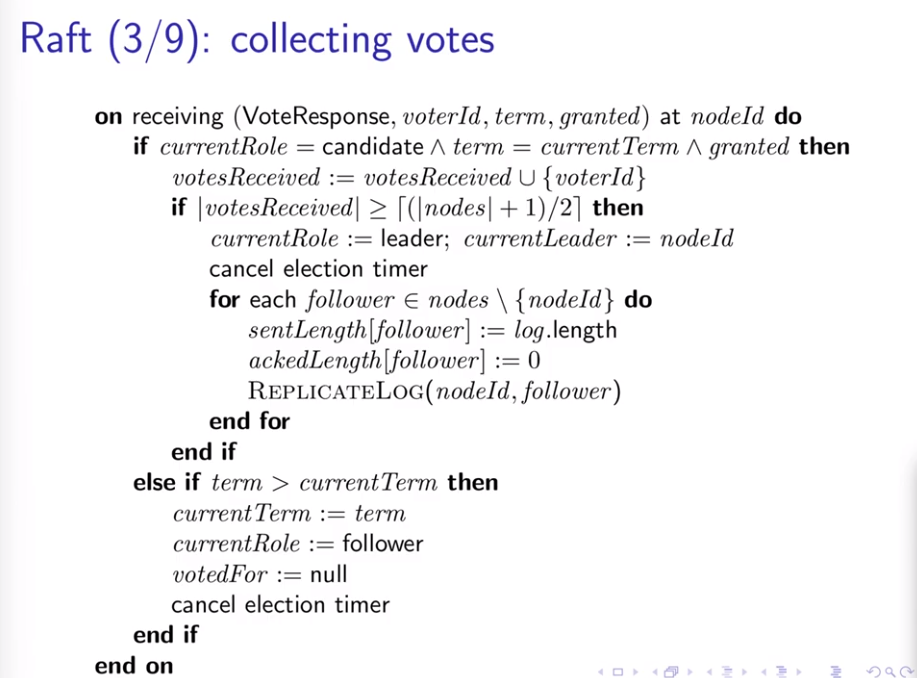
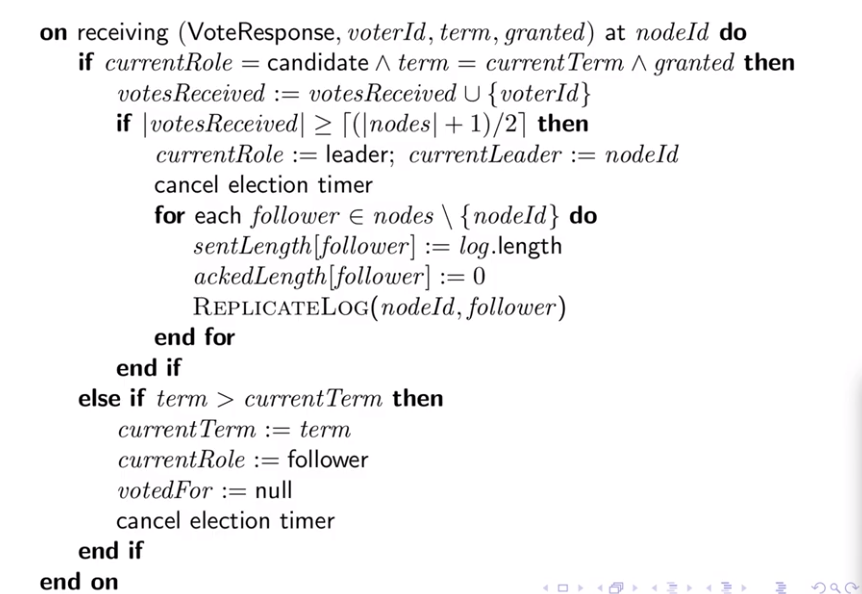
introducing election to handle election phase start/cancel

Changed region(s): [[0.0, 0.0303, 0.935, 1.0], [0.6334, 0.9697, 0.8747, 1.0], [0.9049, 0.9697, 0.9954, 1.0]]

diff --git a/test/core/Node/OnReceivedVoteRequestAgentTests.cs b/test/core/Node/OnReceivedVoteRequestAgentTests.cs
@@ -8,16 +8,19 @@ using RaftCore.Node;
 namespace RaftCoreTest.Node
 {
     [TestFixture]
-    public class OnReceivedVotedRequestAgentTests
+    public class OnReceivedVoteRequestAgentTests
     {
         private Agent _sut;
         private Mock<ICluster> _cluster;
+        private Mock<IElection> _election;
 
         [SetUp]
         public void SetUp()
         {
             _cluster = new Mock<ICluster>();
-            _sut = Agent.Create(_cluster.Object);
+            _election = new Mock<IElection>();
+            _sut = Agent.Create(_cluster.Object,
+                                _election.Object);
         }
 
         [Test]
@@ -45,12 +48,13 @@ namespace RaftCoreTest.Node
             var message = new VoteRequestMessage
             {
                 Type = MessageType.VoteRequest,
+                NodeId = 1,
                 LastTerm = 9
             };
-            agent.OnReceivedVotedRequest(message);
+            agent.OnReceivedVoteRequest(message);
 
             _cluster
-                .Verify(m => m.SendMessage(It.Is<VoteResponseMessage>(
+                .Verify(m => m.SendMessage(1, It.Is<VoteResponseMessage>(
                                                 p => p.NodeId == 42 &&
                                                 p.CurrentTerm == 11 &&
                                                 p.InFavour == false)), Times.Once);
@@ -86,10 +90,10 @@ namespace RaftCoreTest.Node
                 LogLength = 1,
                 CurrentTerm = 12
             };
-            agent.OnReceivedVotedRequest(message);
+            agent.OnReceivedVoteRequest(message);
 
             _cluster
-                .Verify(m => m.SendMessage(It.Is<VoteResponseMessage>(
+                .Verify(m => m.SendMessage(99, It.Is<VoteResponseMessage>(
                                                 p => p.NodeId == 42 &&
                                                 p.CurrentTerm == 12 &&
                                                 p.InFavour == true)), Times.Once);
@@ -128,10 +132,10 @@ namespace RaftCoreTest.Node
                 LogLength = 1,
                 CurrentTerm = 12
             };
-            agent.OnReceivedVotedRequest(message);
+            agent.OnReceivedVoteRequest(message);
 
             _cluster
-                .Verify(m => m.SendMessage(It.Is<VoteResponseMessage>(
+                .Verify(m => m.SendMessage(99, It.Is<VoteResponseMessage>(
                                                 p => p.NodeId == 42 &&
                                                 p.CurrentTerm == 12 &&
                                                 p.InFavour == true)), Times.Once);
@@ -165,13 +169,14 @@ namespace RaftCoreTest.Node
             var message = new VoteRequestMessage
             {
                 Type = MessageType.VoteRequest,
+                NodeId = 1,
                 LastTerm = 11,
                 LogLength = 1
             };
-            agent.OnReceivedVotedRequest(message);
+            agent.OnReceivedVoteRequest(message);
 
             _cluster
-                .Verify(m => m.SendMessage(It.Is<VoteResponseMessage>(
+                .Verify(m => m.SendMessage(1, It.Is<VoteResponseMessage>(
                                                 p => p.NodeId == 42 &&
                                                 p.CurrentTerm == 11 &&
                                                 p.InFavour == false)), Times.Once);
@@ -207,10 +212,10 @@ namespace RaftCoreTest.Node
                 LogLength = 2,
                 CurrentTerm = 12
             };
-            agent.OnReceivedVotedRequest(message);
+            agent.OnReceivedVoteRequest(message);
 
             _cluster
-                .Verify(m => m.SendMessage(It.Is<VoteResponseMessage>(
+                .Verify(m => m.SendMessage(99, It.Is<VoteResponseMessage>(
                                                 p => p.NodeId == 42 &&
                                                 p.CurrentTerm == 12 &&
                                                 p.InFavour == true)), Times.Once);
@@ -249,10 +254,10 @@ namespace RaftCoreTest.Node
                 LogLength = 1,
                 CurrentTerm = 5
             };
-            agent.OnReceivedVotedRequest(message);
+            agent.OnReceivedVoteRequest(message);
 
             _cluster
-                .Verify(m => m.SendMessage(It.Is<VoteResponseMessage>(
+                .Verify(m => m.SendMessage(99, It.Is<VoteResponseMessage>(
                                                 p => p.NodeId == 42 &&
                                                 p.CurrentTerm == 5 &&
                                                 p.InFavour == true)), Times.Once);
@@ -291,10 +296,10 @@ namespace RaftCoreTest.Node
                 LogLength = 1,
                 CurrentTerm = 5
             };
-            agent.OnReceivedVotedRequest(message);
+            agent.OnReceivedVoteRequest(message);
 
             _cluster
-                .Verify(m => m.SendMessage(It.Is<VoteResponseMessage>(
+                .Verify(m => m.SendMessage(1, It.Is<VoteResponseMessage>(
                                                 p => p.NodeId == 42 &&
                                                 p.CurrentTerm == 6 &&
                                                 p.InFavour == false)), Times.Once);
@@ -331,10 +336,10 @@ namespace RaftCoreTest.Node
                 LogLength = 1,
                 CurrentTerm = 5
             };
-            agent.OnReceivedVotedRequest(message);
+            agent.OnReceivedVoteRequest(message);
 
             _cluster
-                .Verify(m => m.SendMessage(It.Is<VoteResponseMessage>(
+                .Verify(m => m.SendMessage(1, It.Is<VoteResponseMessage>(
                                                 p => p.NodeId == 42 &&
                                                 p.CurrentTerm == 6 &&
                                                 p.InFavour == false)), Times.Once);

diff --git a/test/core/Node/OnLedaerHasFailedAgentTests.cs b/test/core/Node/OnLedaerHasFailedAgentTests.cs
@@ -7,17 +7,21 @@ using RaftCore.Node;
 
 namespace RaftCoreTest.Node
 {
+
     [TestFixture]
     public class OnLedaerHasFailedAgentTests
-        {
+    {
         private Agent _sut;
         private Mock<ICluster> _cluster;
+        private Mock<IElection> _election;
 
         [SetUp]
         public void SetUp()
         {
             _cluster = new Mock<ICluster>();
-            _sut = Agent.Create(_cluster.Object);
+            _election = new Mock<IElection>();
+            _sut = Agent.Create(_cluster.Object,
+                                _election.Object);
         }
 
         [Test]
@@ -48,11 +52,13 @@ namespace RaftCoreTest.Node
             agent.Descriptor.CurrentRole.Should().Be(States.Candidate);
             agent.Descriptor.VotedFor.Should().Be(42);
             _cluster
-                .Verify(m => m.SendMessage(It.Is<VoteRequestMessage>(
-                                                p => p.NodeId == 42 &&
-                                                p.LastTerm == 0 &&
-                                                p.LogLength == 0 &&
-                                                p.CurrentTerm == 43)), Times.Once);
+                .Verify(m => m.SendBroadcastMessage(It.Is<VoteRequestMessage>(
+                                                    p => p.NodeId == 42 &&
+                                                    p.LastTerm == 0 &&
+                                                    p.LogLength == 0 &&
+                                                    p.CurrentTerm == 43)), Times.Once);
+            _election
+                .Verify(m => m.Start(), Times.Once);
         }
 
         [Test]
@@ -83,11 +89,13 @@ namespace RaftCoreTest.Node
             agent.Descriptor.CurrentRole.Should().Be(States.Candidate);
             agent.Descriptor.VotedFor.Should().Be(42);
             _cluster
-                .Verify(m => m.SendMessage(It.Is<VoteRequestMessage>(
-                                                p => p.NodeId == 42 &&
-                                                p.LastTerm == 10 &&
-                                                p.LogLength == 1 &&
-                                                p.CurrentTerm == 43)), Times.Once);
-        }    
+                .Verify(m => m.SendBroadcastMessage(It.Is<VoteRequestMessage>(
+                                                    p => p.NodeId == 42 &&
+                                                    p.LastTerm == 10 &&
+                                                    p.LogLength == 1 &&
+                                                    p.CurrentTerm == 43)), Times.Once);
+            _election
+                .Verify(m => m.Start(), Times.Once);
+        }
     }
 }

diff --git a/src/core/Node/Agent.cs b/src/core/Node/Agent.cs
@@ -14,14 +14,16 @@ namespace RaftCore.Node
         public Descriptor Descriptor { get; private set; }
 
         private readonly ICluster _cluster;
+        private readonly IElection _election;
 
-        private Agent(ICluster cluster)
+        private Agent(ICluster cluster, IElection election)
         {
             _cluster = cluster;
+            _election = election;
         }
 
-        public static Agent Create(ICluster cluster)
-            => new(cluster);
+        public static Agent Create(ICluster cluster, IElection election)
+            => new(cluster, election);
 
         public Agent OnInitialise(NodeConfiguration nodeConfiguration)
             => this
@@ -71,12 +73,13 @@ namespace RaftCore.Node
                 .Tee(descriptor => Descriptor = descriptor)
                 .Tee(descriptor => LastEntryOrZero(Descriptor.Log)
                                     .Map(_ => BuildMessage(MessageType.VoteRequest, _, true))
-                                    .Do(_ => _cluster.SendMessage(_)));
+                                    .Tee(_ => _cluster.SendBroadcastMessage(_))
+                                    .Tee(_ => _election.Start()));
 
         public void OnElectionTimeOut()
             => OnLedaerHasFailed();
 
-        public Unit OnReceivedVotedRequest(VoteRequestMessage message)
+        public Unit OnReceivedVoteRequest(VoteRequestMessage message)
             => ValidateLog(Descriptor, message)
                 .Bind(_ => ValidateTerm(Descriptor, message))
                 .Match(
@@ -93,9 +96,12 @@ namespace RaftCore.Node
                                 AckedLength = Descriptor.AckedLength
                             }
                             .Tee(descriptor => Descriptor = descriptor)
-                            .Map(_ => _cluster.SendMessage(BuildMessage(MessageType.VoteResponse, Descriptor.CurrentTerm, true))),
-                    _ => _cluster.SendMessage(BuildMessage(MessageType.VoteResponse, Descriptor.CurrentTerm, false))
+                            .Map(_ => _cluster.SendMessage(message.NodeId, BuildMessage(MessageType.VoteResponse, Descriptor.CurrentTerm, true))),
+                    _ => _cluster.SendMessage(message.NodeId, BuildMessage(MessageType.VoteResponse, Descriptor.CurrentTerm, false))
                 );
+
+        public Unit OnReceivedVoteResponse(VoteResponseMessage message)
+            => Unit.Default;
 
         private Message BuildMessage(MessageType type, int lastTerm, bool inFavour)
             => type switch

diff --git a/test/core/Node/OnElectionTimeOutAgentTests.cs b/test/core/Node/OnElectionTimeOutAgentTests.cs
@@ -12,12 +12,15 @@ namespace RaftCoreTest.Node
     {
         private Agent _sut;
         private Mock<ICluster> _cluster;
+        private Mock<IElection> _election;
 
         [SetUp]
         public void SetUp()
         {
             _cluster = new Mock<ICluster>();
-            _sut = Agent.Create(_cluster.Object);
+            _election = new Mock<IElection>();
+            _sut = Agent.Create(_cluster.Object,
+                                _election.Object);
         }
 
         [Test]
@@ -48,11 +51,11 @@ namespace RaftCoreTest.Node
             agent.Descriptor.CurrentRole.Should().Be(States.Candidate);
             agent.Descriptor.VotedFor.Should().Be(42);
             _cluster
-                .Verify(m => m.SendMessage(It.Is<VoteRequestMessage>(
-                                                p => p.NodeId == 42 &&
-                                                p.LastTerm == 0 &&
-                                                p.LogLength == 0 &&
-                                                p.CurrentTerm == 43)), Times.Once);
+                .Verify(m => m.SendBroadcastMessage(It.Is<VoteRequestMessage>(
+                                                    p => p.NodeId == 42 &&
+                                                    p.LastTerm == 0 &&
+                                                    p.LogLength == 0 &&
+                                                    p.CurrentTerm == 43)), Times.Once);
         }
 
         [Test]
@@ -83,11 +86,11 @@ namespace RaftCoreTest.Node
             agent.Descriptor.CurrentRole.Should().Be(States.Candidate);
             agent.Descriptor.VotedFor.Should().Be(42);
             _cluster
-                .Verify(m => m.SendMessage(It.Is<VoteRequestMessage>(
-                                                p => p.NodeId == 42 &&
-                                                p.LastTerm == 10 &&
-                                                p.LogLength == 1 &&
-                                                p.CurrentTerm == 43)), Times.Once);
+                .Verify(m => m.SendBroadcastMessage(It.Is<VoteRequestMessage>(
+                                                    p => p.NodeId == 42 &&
+                                                    p.LastTerm == 10 &&
+                                                    p.LogLength == 1 &&
+                                                    p.CurrentTerm == 43)), Times.Once);
         }
     }
 }

diff --git a/test/core/Node/OnReceivedVoteResponseAgentTests.cs b/test/core/Node/OnReceivedVoteResponseAgentTests.cs
@@ -1,0 +1,24 @@
+using Moq;
+using NUnit.Framework;
+using RaftCore.Cluster;
+using RaftCore.Node;
+
+namespace RaftCoreTest.Node
+{
+    [TestFixture]
+    public class OnReceivedVoteResponseAgentTests
+    {
+        private Agent _sut;
+        private Mock<ICluster> _cluster;
+        private Mock<IElection> _election;
+
+        [SetUp]
+        public void SetUp()
+        {
+            _cluster = new Mock<ICluster>();
+            _election = new Mock<IElection>();
+            _sut = Agent.Create(_cluster.Object,
+                                _election.Object);
+        }
+    }
+}

diff --git a/test/core/Node/AgentTests.cs b/test/core/Node/AgentTests.cs
@@ -12,12 +12,15 @@ namespace RaftCoreTest.Node
     {
         private Agent _sut;
         private Mock<ICluster> _cluster;
+        private Mock<IElection> _election;
 
         [SetUp]
         public void SetUp()
         {
             _cluster = new Mock<ICluster>();
-            _sut = Agent.Create(_cluster.Object);
+            _election = new Mock<IElection>();
+            _sut = Agent.Create(_cluster.Object,
+                                _election.Object);
         }
 
         [Test]

diff --git a/src/core/Cluster/ICluster.cs b/src/core/Cluster/ICluster.cs
@@ -5,6 +5,7 @@ namespace RaftCore.Cluster
 {
     public interface ICluster
     {
-        Unit SendMessage(Message message);
+        Unit SendBroadcastMessage(Message message);
+        Unit SendMessage(int nodeId, Message message);
     }
 }

diff --git a/src/core/Node/IElection.cs b/src/core/Node/IElection.cs
@@ -1,0 +1,10 @@
+using TinyFp;
+
+namespace RaftCore.Node
+{
+    public interface IElection
+    {
+        Unit Start();
+        Unit Cancel();
+    }
+}

diff --git a/docs/RAFT.md b/docs/RAFT.md
@@ -56,11 +56,19 @@ First of all the node check if the local log is consistent with the candidate sa
 
 In this way we are ensuring the candidate has an up to date log. 
 
-We have to ensure also that we are not allowed to vote more then one candidate in a different term, and this is what **termOk** is going to do. So if the candidate term is greater the the currentTerm or we have not voted yet for the candidate nodeId or we have not voted yet for anyone. So in case the candidate term is lower then my current term is not possible to vote for.
+We have to ensure also that we are not allowed to vote more then one candidate in a different term, and this is what **termOk** is going to do. So if the candidate term is greater the the **currentTerm** or we have not voted yet for the candidate **nodeId** or we have not voted yet for anyone. So in case the candidate term is lower then my current term is not possible to vote for.
 
 If both are ok then we are going to vote in favour for the candidate.
 
+### Collecting votes
 
+![raft-code-1](./imgs/raft-code-3.png)
+
+Back on the candidate side to look to all responses.
+
+We have a successful vote when the currentRole of the node is candidate, the term coming from response is equal to currentTerm and the vote is granted. So in this case first of all we have to add the **voterId** to the set of the votes we received (we have to count the unique vote). If the set of votes is a quorum (the number of votes is greater than the half of the number of the nodes round up) then we can transition to **leader** state and we can cancel the election timer because we reached the quorum of votes we need to became a leader. Becoming a leader means we have to initialize some internal state and notify all the nodes the node is the new leader.
+
+ 
 
 
 
